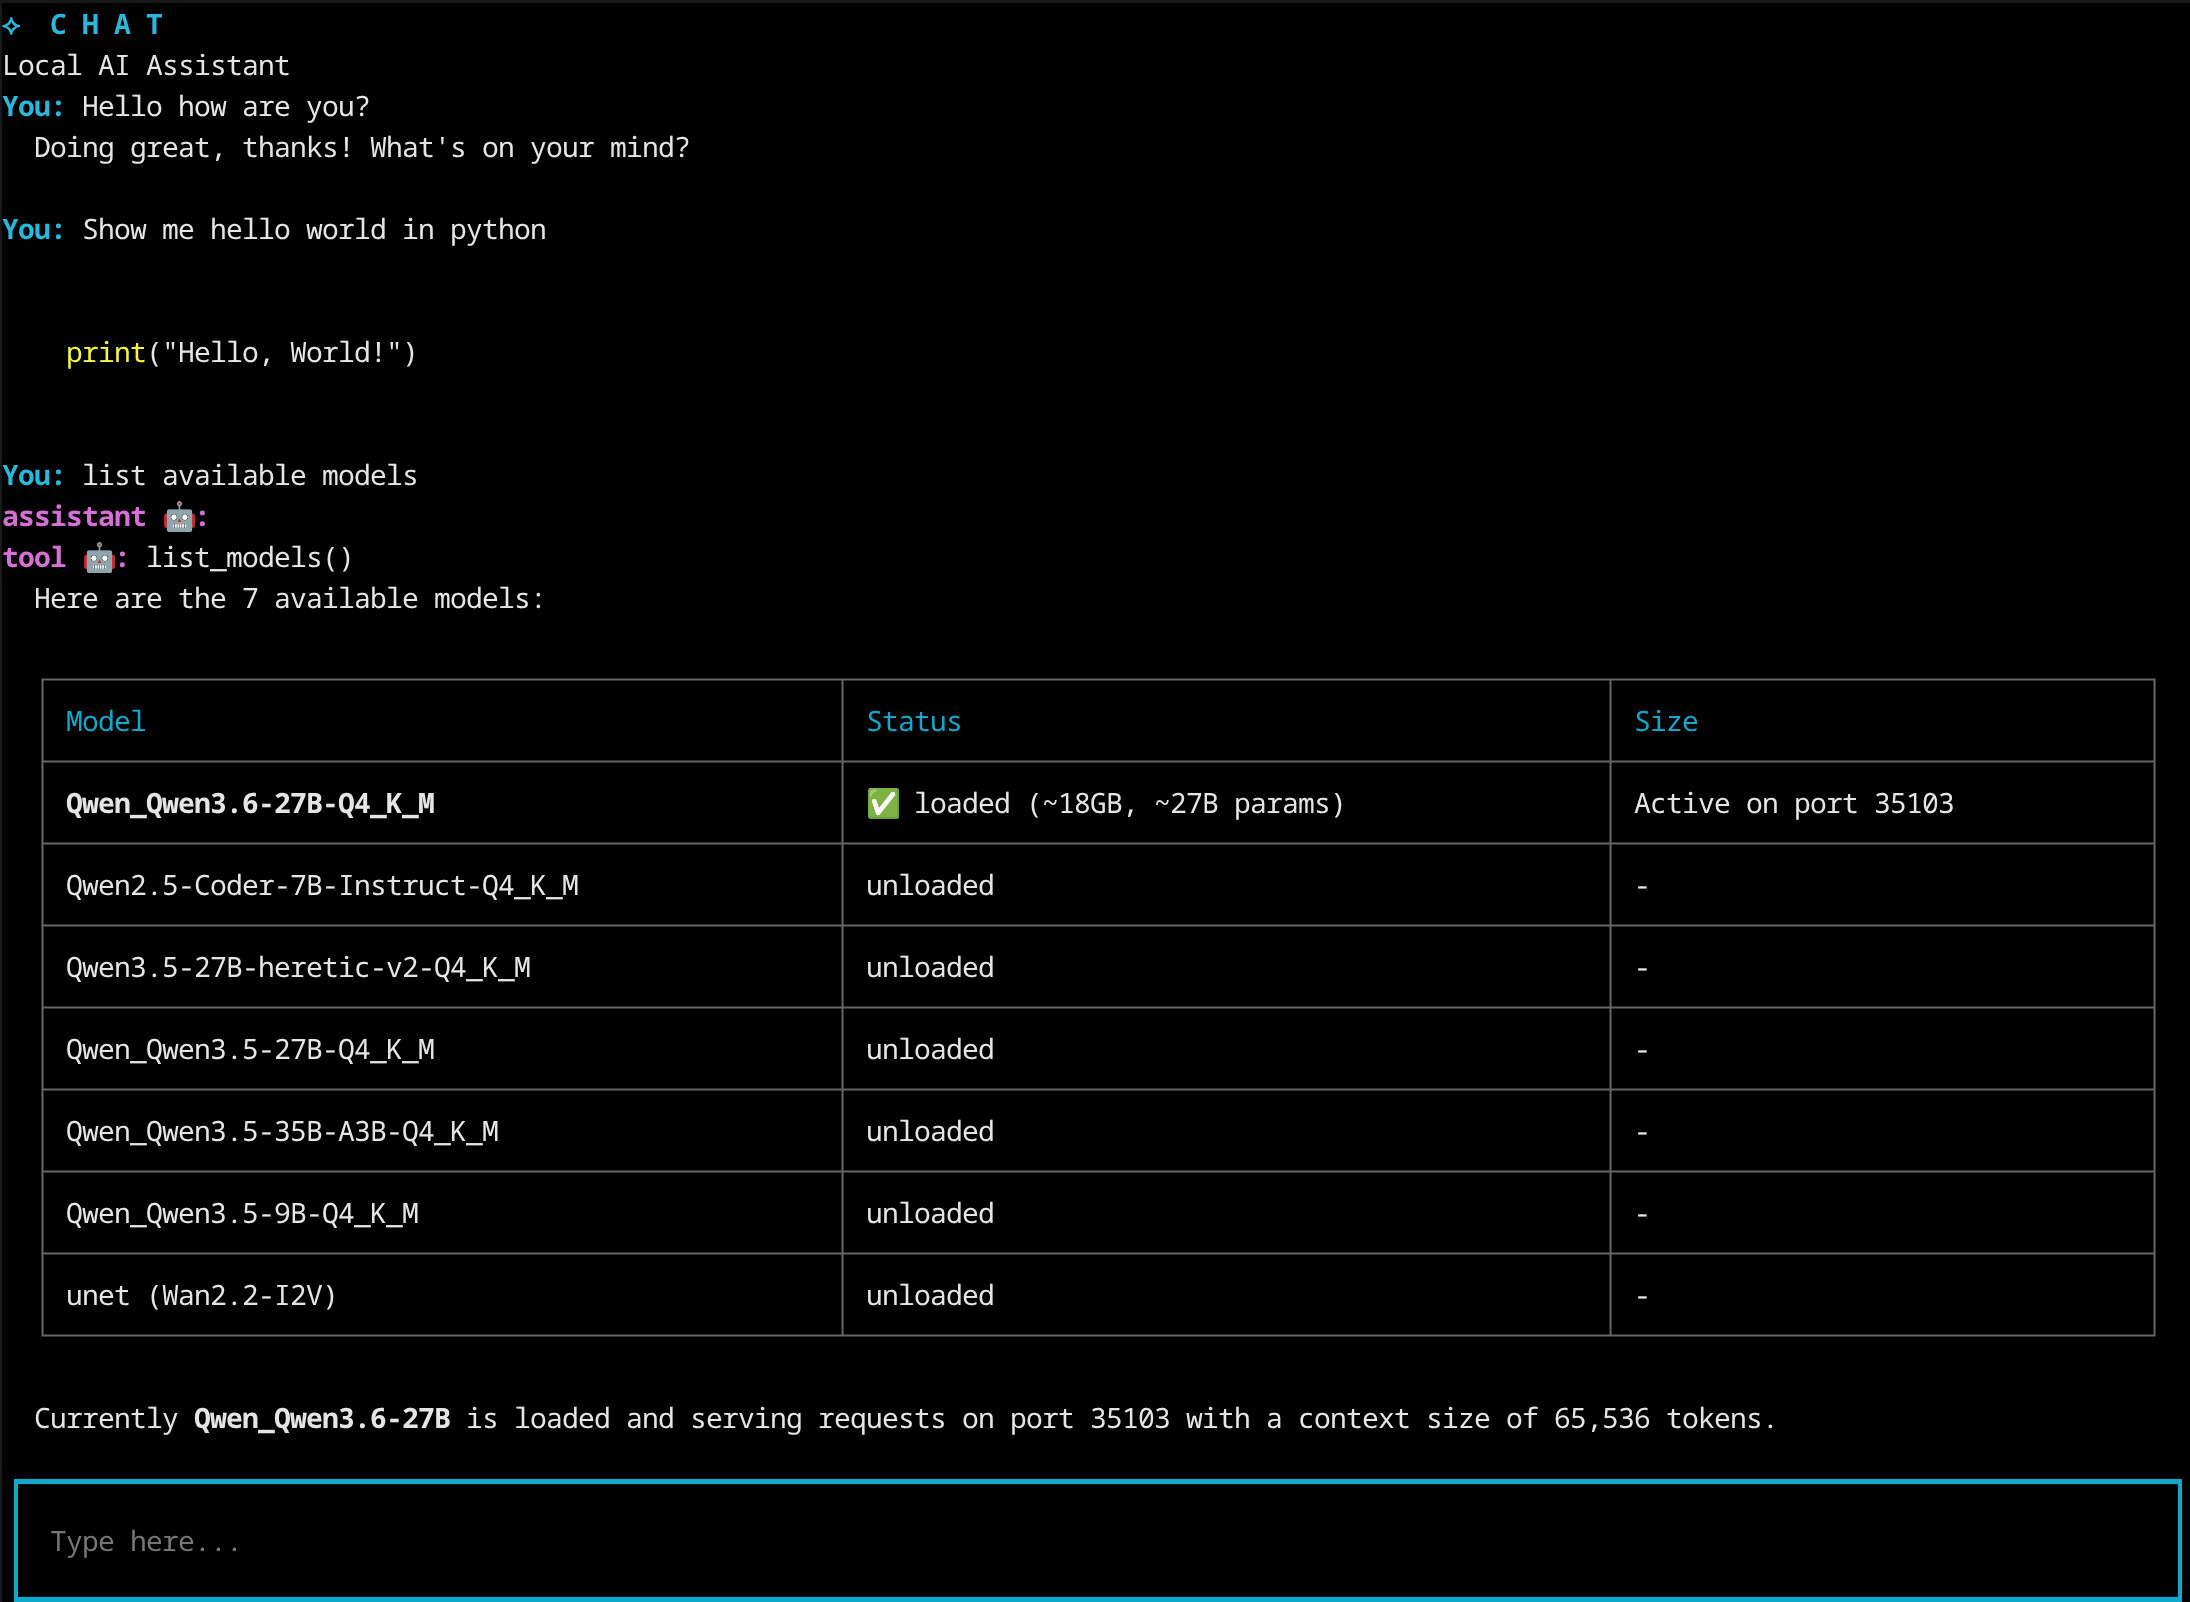
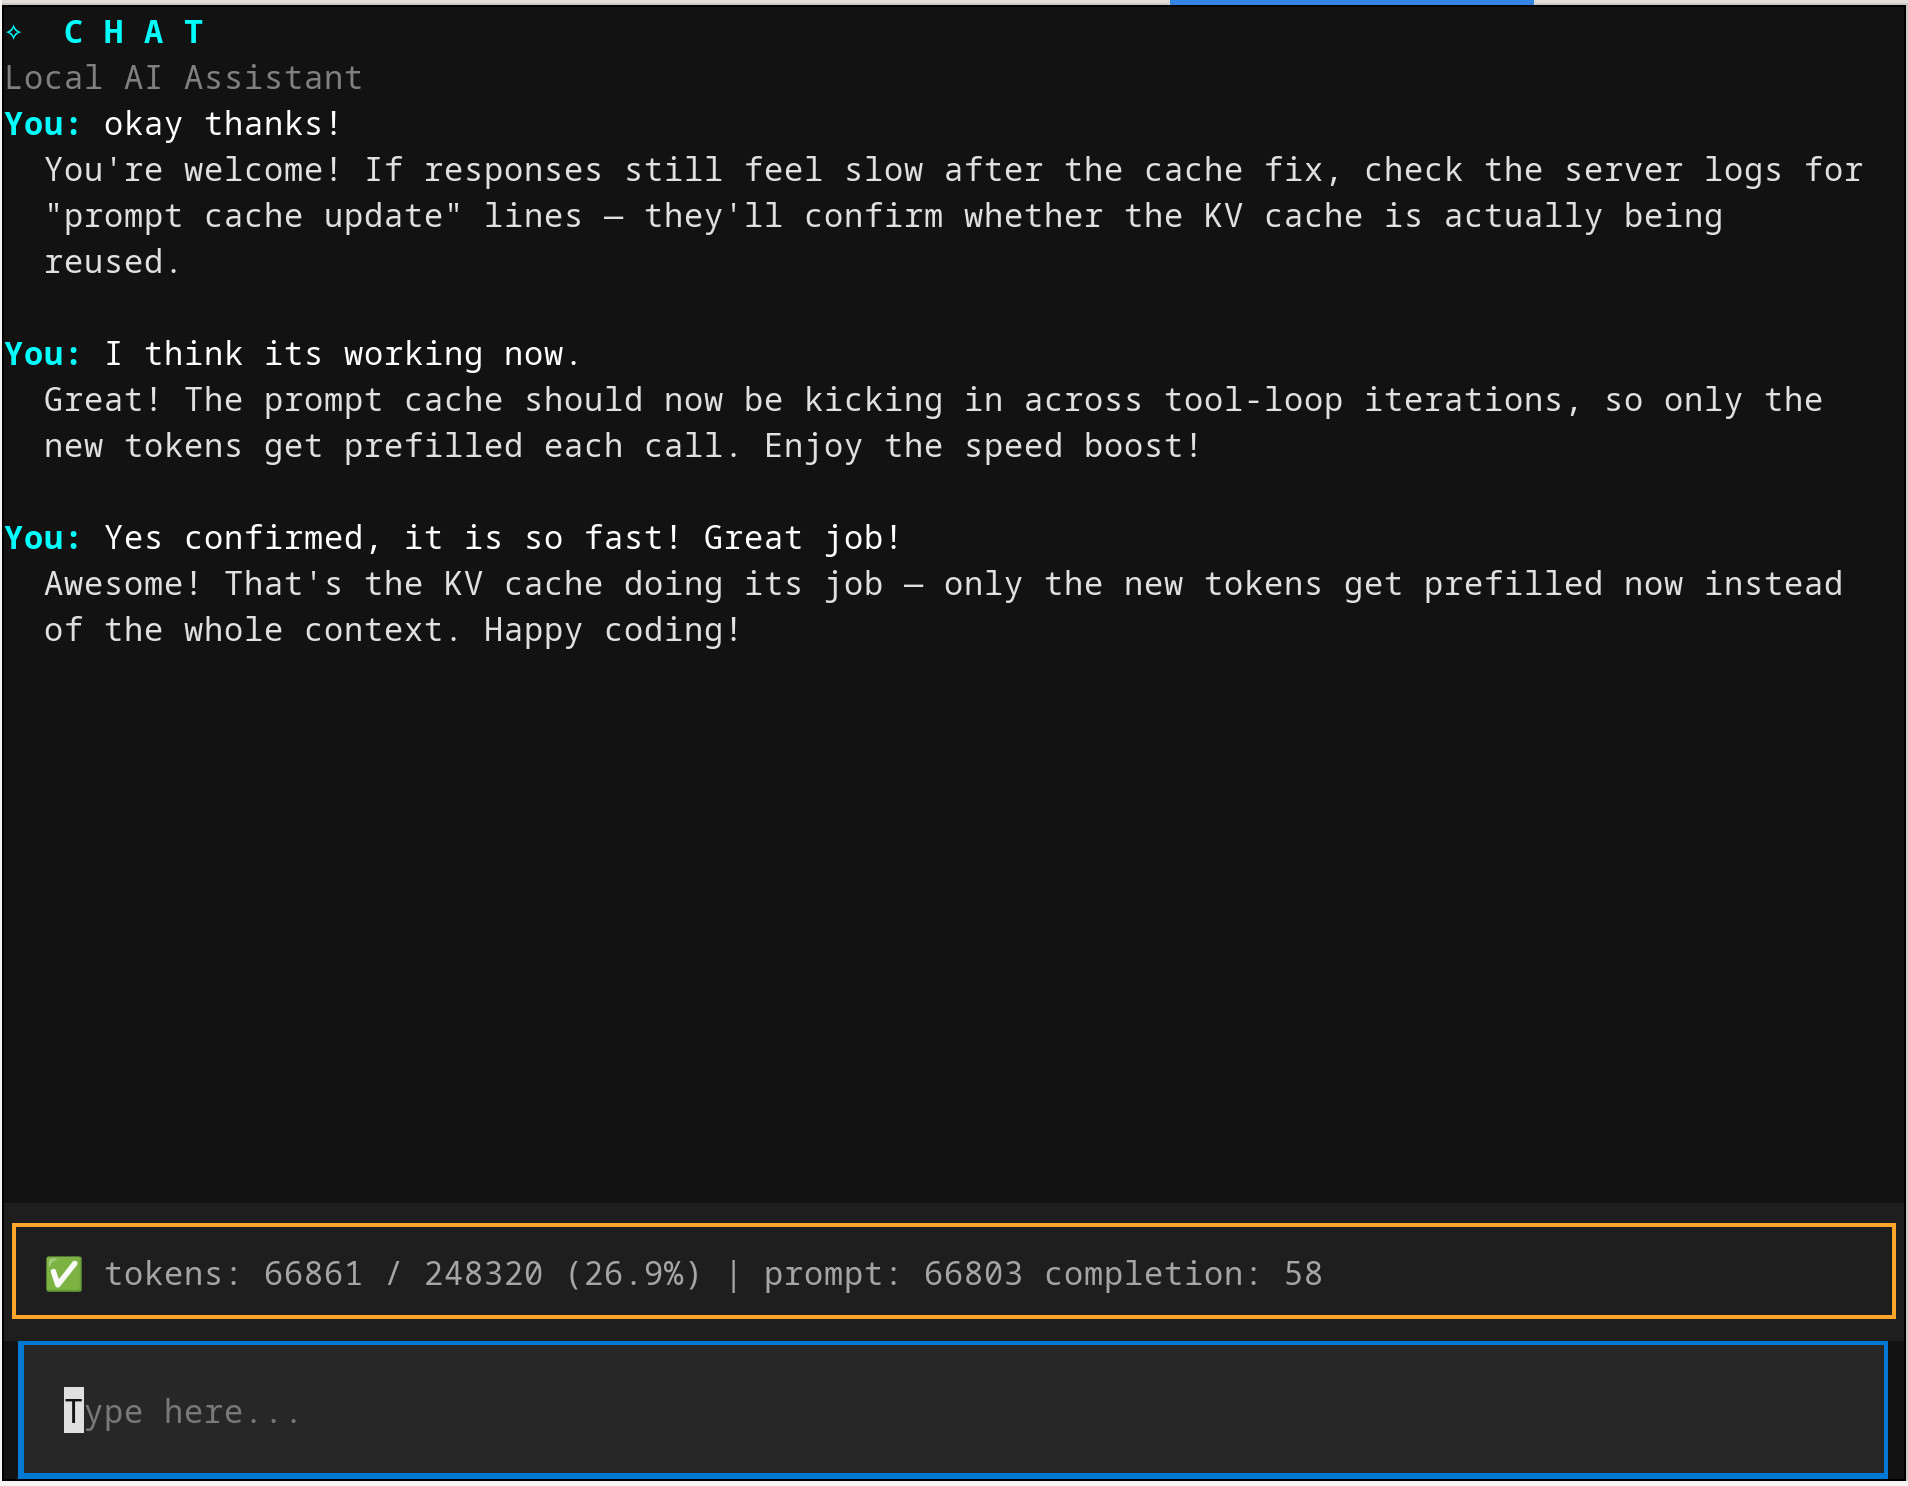
oops we broke the prompt cache!

diff --git a/main.py b/main.py
@@ -200,8 +200,8 @@ async def stream_chat_completion(
     """Send a streaming chat completion request, yielding SSE chunks asynchronously."""
     system_content = SYSTEM_MD.read_text() if SYSTEM_MD.exists() else ""
     
-    # Add dynamic context to system prompt
-    session_context = f"\n\nCurrent time: {datetime.now().isoformat()}\nCurrent working directory: {os.getcwd()}\nActive session: {session_id}Active user_id: {user_id}\n\n"
+    # Add dynamic context to system prompt (keep stable across calls so the server's prompt cache can be reused)
+    session_context = f"\n\nActive session: {session_id}Active user_id: {user_id}\n\n"
     system_content += session_context
 
     # Strip timestamps before sending to LLM API
